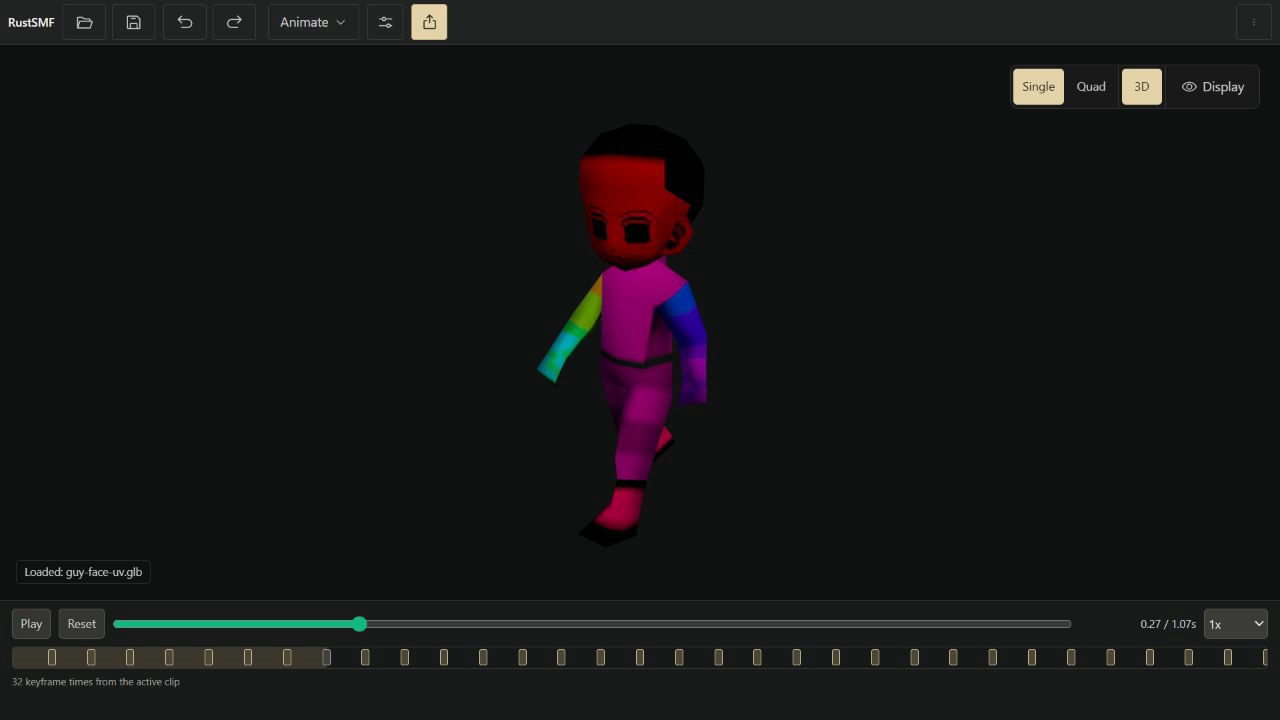
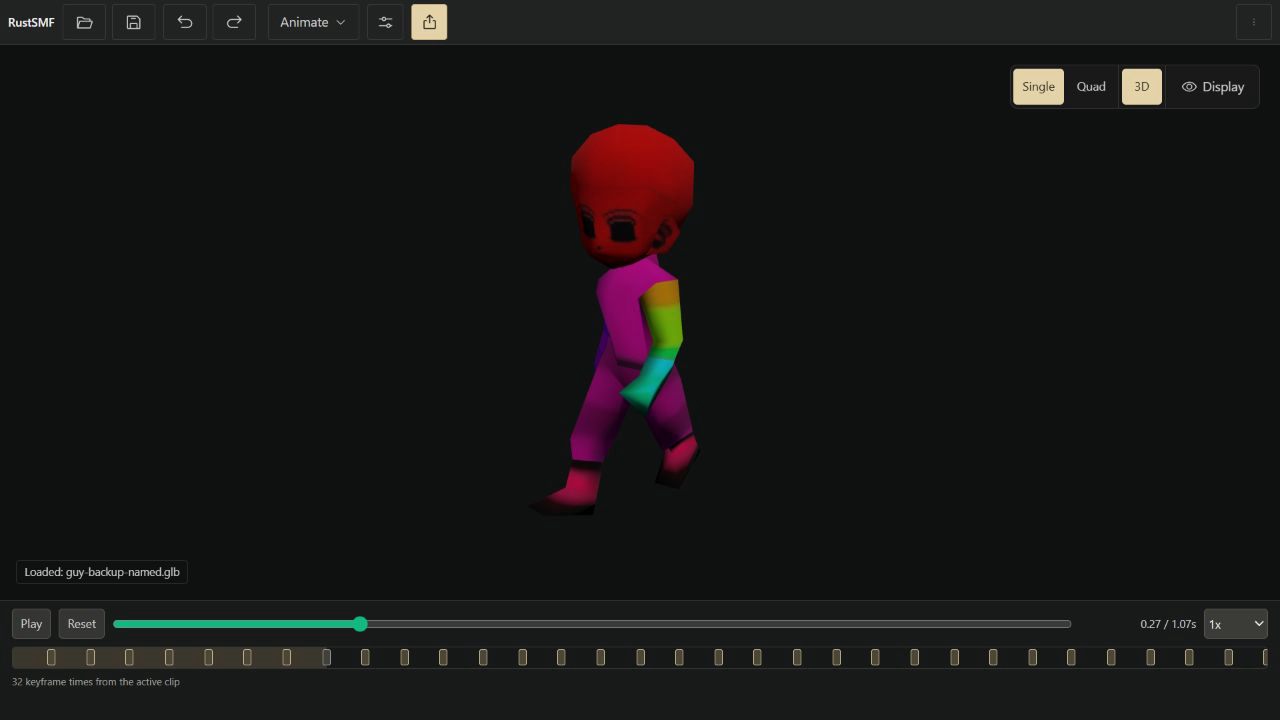
docs: refresh showcase from the named backup dummy

Changed region(s): [[0.4062, 0.1528, 0.5625, 0.7333], [0.0625, 0.7944, 0.125, 0.825]]

diff --git a/docs/dev/ASSET_PROVENANCE.md b/docs/dev/ASSET_PROVENANCE.md
@@ -11,7 +11,7 @@ This register records inputs and intended replacements. It grants no additional 
[1 lines of base64/hex data omitted]
 | SAMPLE-SABLE-001 | Original CAT-IMAGE-002 design reconstructed/textured by Tripo Pro, repaired in Blender 5.2.1; original fitted rig and Idle/Walk/Run/Sit keys. Editable `sable.blend`, self-contained `sable.glb`, studio render and rebuild recipe in `examples/black-cat/`. `asset.json` binds hashes. | Finished AI-assisted pack distributed by Shoozes under MIT, copyright 2026 Shoozes, using the generation-specific paid-output rights. No borrowed media or donor motions included. | Independent topology/raw-skin/known-motion checks, registered native views, ordinary playback and project/queued-GLB continuity own acceptance. Similar pose does not establish fox-rig compatibility. |
 | SAMPLE-SIGNAL-001 | Project-generated `examples/rustsmf-demo.glb`; source generator `source/frontend/scripts/generate-preview-demo.ts`. | Existing first-party quickstart sample. Its prior preview acceptance is unchanged. | Remains the installed 0.2.1 quickstart. Sable supplements it in source; installer and release assets are unchanged. |
[2 lines of base64/hex data omitted]
 
 CAT-TRIPO-001 used no texture/retopo/rigging credits and remains uncleared. Its local records are under `output/retarget-assistance-20261014/asset-trial/`. The current revision used 120 authorized existing credits (2555 to 2435); no purchase, subscription change, borrowed animation or online rig operation was used. Private source and review records are under `output/original-assets-20261015/tripo-revision/`. The global `tripo-asset-workflow` skill contains instructions only.
 
@@ -30,3 +30,5 @@ AI-edited: 2026-10-15T17:05:37.137Z | agent=Codex/root | model=unknown | effort=
 AI-edited: 2026-10-15T16:07:12-04:00 | agent=Codex/root | model=unknown | effort=unknown | task=review-cleanup | change=routed completed Sable acceptance to History and the sample guide
 
 AI-edited: 2026-10-15 | agent=Codex/root | model=unknown | effort=unknown | task=dummy-showcase | change=bound the selected private GLB screenshot reference and separated existing SMF evidence
+
+AI-edited: 2026-10-15 | agent=Codex/root | model=unknown | effort=unknown | task=backup-dummy | change=bound the backup-derived name repair while preserving textures and all twelve clips

diff --git a/docs/dev/HISTORY.md b/docs/dev/HISTORY.md
@@ -2,6 +2,14 @@
 
 This file is the canonical home for completed repo/app work and its durable verification record. Current behavior belongs in `APP_STATE.md`; tracked scope and acceptance outcomes belong in `TODO.md`; recurring hazards belong in `PITFALL_LEDGER.md`.
 
+## 2026-10-15 — Backup dummy names and preserved textures
+
+Selected the user-owned GuyGame backup as the new private showcase source. Its complete 38-node parent/role layout matches the existing SMF fixture. A names-only derivative applies the 24 established deform aliases from `boneAliases.ts` and descriptive names for all 14 helper markers. Independent reparse compares every other JSON field and the full binary payload exactly: original JPEG textures, UVs, geometry, skin, inverse binds, transforms, hierarchy and all twelve animation clips remain unchanged. No rig is replaced, no clips are retargeted, and the backup file is untouched. ASSET_PROVENANCE binds source and derivative identities.
+
+An ordinary browser Open loads 38 bones and twelve correctly named clips without warnings/errors. One lightweight capture against the existing build shows Walk at 0.27 seconds with upright face/scalp and original clothing textures; Tools and helpers are hidden. The README overview is replaced with that actual capture. This establishes the pictured source and clip inventory, not exhaustive playback or export acceptance. `output/playwright/dummy-showcase/receipt.json`, under `backupRename`, owns the mapping, byte-preservation evidence, capture and local checks. The owned tab and identity-checked preview process exit, releasing port 53174. All GLBs, earlier variants, Tripo drafts and borrowed references remain ignored/private. No app code, fixture, strict baseline, installer or version changes. Subsequent authorized publication verifies the exact three-file staged candidate in an isolated public-source copy; `backupRename.publication` binds checks, base/tree, confirmed remote commit and owned scratch cleanup. The unchanged runtime retains its prior gate evidence.
+
+AI-created: 2026-10-15 | agent=Codex/root | model=unknown | effort=unknown | task=backup-dummy
+
 ## 2026-10-15 — Test dummy showcase
 
 After sampler publication `7297e0e`, replaced the README overview with an actual Modern capture of the user-selected local named-bone dummy. The caption distinguishes the shown reference from the Signal Robot download still included with 0.2.1. The selected file has 25 named bones, ten clips and six embedded textures; two clip names are still generic. Asset identity and the private retention boundary are recorded in ASSET_PROVENANCE.
